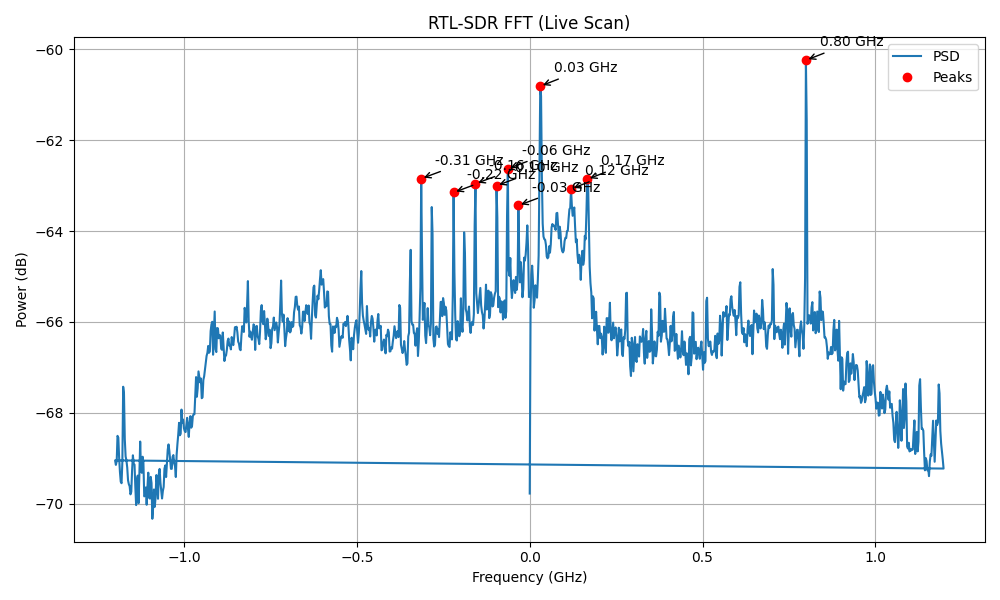
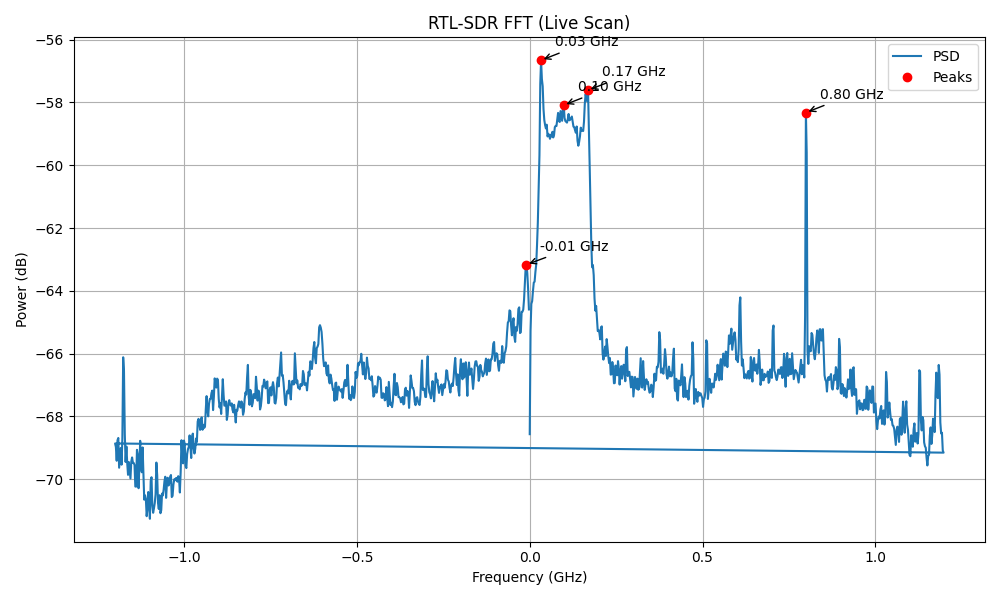
Anomalies

diff --git a/templates/index.html b/templates/index.html
@@ -17,6 +17,8 @@
         --text-color: #1e293b;
         --text-secondary: #64748b;
         --border-color: #e2e8f0;
+        --warning-color: #f59e0b;
+        --alert-color: #dc2626;
       }
 
       * {
@@ -152,6 +154,56 @@
           padding: 1rem;
         }
       }
+
+      .abnormal-cases {
+        margin-top: 2rem;
+      }
+
+      .case-item {
+        background-color: var(--card-background);
+        border-radius: 0.5rem;
+        padding: 1rem;
+        margin-bottom: 1rem;
+        box-shadow: 0 1px 3px rgba(0, 0, 0, 0.1);
+      }
+
+      .case-item.warning {
+        border-left: 4px solid var(--warning-color);
+      }
+
+      .case-item.alert {
+        border-left: 4px solid var(--alert-color);
+      }
+
+      .case-header {
+        display: flex;
+        justify-content: space-between;
+        align-items: center;
+        margin-bottom: 0.5rem;
+      }
+
+      .case-title {
+        font-weight: 600;
+        color: var(--text-color);
+      }
+
+      .case-timestamp {
+        font-size: 0.875rem;
+        color: var(--text-secondary);
+      }
+
+      .case-details {
+        font-size: 0.875rem;
+        color: var(--text-secondary);
+        margin-top: 0.5rem;
+      }
+
+      .case-details pre {
+        background-color: var(--background-color);
+        padding: 0.5rem;
+        border-radius: 0.25rem;
+        overflow-x: auto;
+      }
     </style>
     <script>
       let timeLeft = 5; // seconds until refresh
@@ -204,6 +256,25 @@
           </ul>
         </div>
       </div>
+
+      {% if abnormal_cases %}
+      <div class="abnormal-cases">
+        <h2 class="peaks-title">Abnormal Cases</h2>
+        {% for case in abnormal_cases|reverse %}
+        <div class="case-item {{ case.severity }}">
+          <div class="case-header">
+            <div class="case-title">{{ case.description }}</div>
+            <div class="case-timestamp">{{ case.timestamp }}</div>
+          </div>
+          {% if case.details %}
+          <div class="case-details">
+            <pre>{{ case.details | tojson(indent=2) }}</pre>
+          </div>
+          {% endif %}
+        </div>
+        {% endfor %}
+      </div>
+      {% endif %}
     </div>
   </body>
 </html>

diff --git a/findCases.py b/findCases.py
@@ -1,0 +1,79 @@
+import numpy as np
+from collections import defaultdict
+import json
+from datetime import datetime
+
+class SpectrumAnalyzer:
+    def __init__(self):
+        self.history = defaultdict(list)
+        self.abnormal_cases = []
+        self.config = {
+            'power_threshold': 3.0,  # dB above mean to consider as peak
+            'high_power_threshold': -57.0,  # dB threshold for high power
+            'unusual_frequency_threshold': 2.0,  # Standard deviations for unusual frequency
+            'max_peaks_threshold': 15  # Maximum number of peaks to consider normal
+        }
+
+    def analyze_peaks(self, peak_freqs, peak_powers):
+        """
+        Analyze peaks for unusual patterns and store abnormal cases
+        """
+        if len(peak_freqs) == 0:
+            return self._create_case("No peaks detected", "warning")
+
+        # Calculate basic statistics
+        mean_power = np.mean(peak_powers)
+        std_power = np.std(peak_powers)
+        mean_freq = np.mean(peak_freqs)
+        std_freq = np.std(peak_freqs)
+
+        # Check for unusual number of peaks
+        if len(peak_freqs) > self.config['max_peaks_threshold']:
+            return self._create_case(
+                f"Too many peaks detected: {len(peak_freqs)}",
+                "warning",
+                {"num_peaks": len(peak_freqs)}
+            )
+
+        # Check for high power levels (less than -57 dB)
+        high_powers = peak_powers[peak_powers > self.config['high_power_threshold']]
+        if len(high_powers) > 0:
+            return self._create_case(
+                "High power levels detected",
+                "alert",
+                {
+                    "threshold": self.config['high_power_threshold'],
+                    "high_powers": high_powers.tolist(),
+                    "frequencies": peak_freqs[peak_powers < self.config['high_power_threshold']].tolist()
+                }
+            )
+
+        # Check for unusual frequency distribution
+        unusual_freqs = peak_freqs[np.abs(peak_freqs - mean_freq) > self.config['unusual_frequency_threshold'] * std_freq]
+        if len(unusual_freqs) > 0:
+            return self._create_case(
+                "Unusual frequency distribution detected",
+                "alert",
+                {
+                    "mean_freq": mean_freq,
+                    "std_freq": std_freq,
+                    "unusual_freqs": unusual_freqs.tolist()
+                }
+            )
+
+        return None
+
+    def _create_case(self, description, severity, details=None):
+        """Create a case record for an abnormal condition"""
+        case = {
+            "timestamp": datetime.now().isoformat(),
+            "description": description,
+            "severity": severity,
+            "details": details or {}
+        }
+        self.abnormal_cases.append(case)
+        return case
+
+    def get_abnormal_cases(self, limit=10):
+        """Get the most recent abnormal cases"""
+        return self.abnormal_cases[-limit:]

diff --git a/app.py b/app.py
@@ -10,6 +10,7 @@ from scipy.signal import welch, find_peaks
 import numpy as np
 import matplotlib.pyplot as plt
 import random
+from findCases import SpectrumAnalyzer
 
 app = Flask(__name__)
 
@@ -17,9 +18,11 @@ app = Flask(__name__)
 latest_peaks = []
 last_update_time = 0
 update_interval = 5  # seconds
+spectrum_analyzer = SpectrumAnalyzer()
+abnormal_cases = []
 
 def process_sdr_data():
-    global latest_peaks, last_update_time
+    global latest_peaks, last_update_time, abnormal_cases
     
     while True:
         try:
@@ -33,23 +36,30 @@ def process_sdr_data():
 
             # Calculate PSD
             f, Pxx = welch(samples, fs=sdr.sample_rate, nperseg=1024)
-            f_GHz = f / 1e6
+            f_mhz = f / 1e6
             Pxx_db = 10 * np.log10(Pxx)
 
             # Peak detection
             mean_power = np.mean(Pxx_db)
-            peaks, _ = find_peaks(Pxx_db, height=mean_power + 3.0, distance=5, prominence=0.1)
-
-            peak_freqs = f_GHz[peaks]
+            peaks, _ = find_peaks(Pxx_db, height=mean_power + 3.0, distance=10, prominence=0.5)
+            peak_freqs = f_mhz[peaks]
             peak_powers = Pxx_db[peaks]
 
             # Update latest peaks
             latest_peaks = list(zip(peak_freqs, peak_powers))
             last_update_time = time.time()
 
+            # Analyze for unusual cases
+            case = spectrum_analyzer.analyze_peaks(peak_freqs, peak_powers)
+            if case:
+                abnormal_cases.append(case)
+                # Save cases to file periodically
+                if len(abnormal_cases) % 10 == 0:
+                    spectrum_analyzer.save_cases()
+
             # Plot and save
             plt.figure(figsize=(10, 6))
-            plt.plot(f_GHz, Pxx_db, label='PSD')
+            plt.plot(f_mhz, Pxx_db, label='PSD')
             plt.plot(peak_freqs, peak_powers, 'ro', label='Peaks')
             for i, pf in enumerate(peak_freqs):
                 plt.annotate(f'{pf:.2f} GHz', xy=(pf, peak_powers[i]),
@@ -75,6 +85,7 @@ def index():
     return render_template(
         'index.html',
         peaks=latest_peaks,
+        abnormal_cases=abnormal_cases[-5:],  # Show last 5 abnormal cases
         random=random.random
     )
 
@@ -89,4 +100,3 @@ if __name__ == '__main__':
     
     # Start the Flask app
     app.run(host='0.0.0.0', port=5000, debug=True)
-
